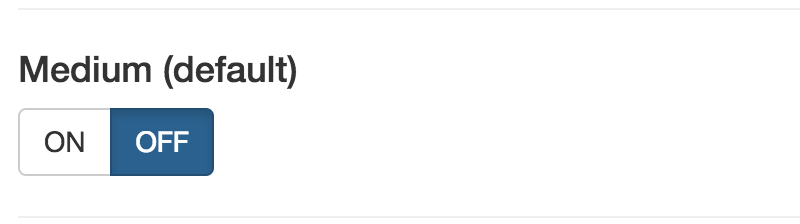
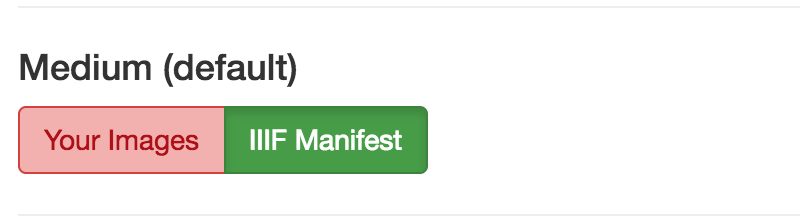
Media Manager toggle - proposed screen capture and UI code.

Changed region(s): [[0.0, 0.4688, 0.5625, 0.8125], [0.0312, 0.2188, 0.375, 0.4062], [0.3438, 0.2188, 0.375, 0.3125]]

diff --git a/mediaManager_toggle/index.html b/mediaManager_toggle/index.html
@@ -1,5 +1,12 @@
-<!--From https://www.bootply.com/92189-->
+<!--Modifying the Bootstrap class to danger and success. altering the style of the deselected button - btn-danger&#45;&#45;deselected-->
 <div class="btn-group btn-toggle">
-    <button class="btn btn-default">ON</button>
-    <button class="btn active btn-primary">OFF</button>
+    <button class="btn btn-danger btn-danger--deselected">Your Images</button>
+    <button class="btn active btn-success">IIIF Manifest</button>
   </div>
+
+
+<!--Style for the desected button-->
+.danger--deselected {
+color: #af0c0c;
+background-color: #f3b0ae;
+}
